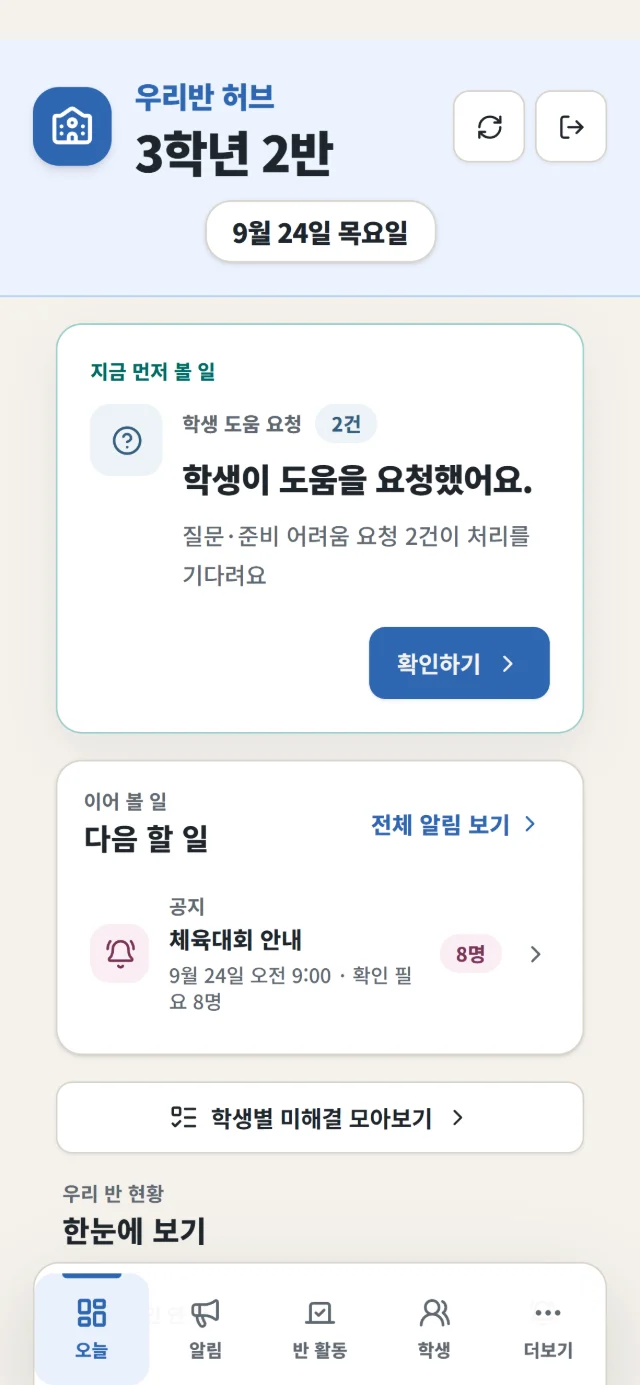
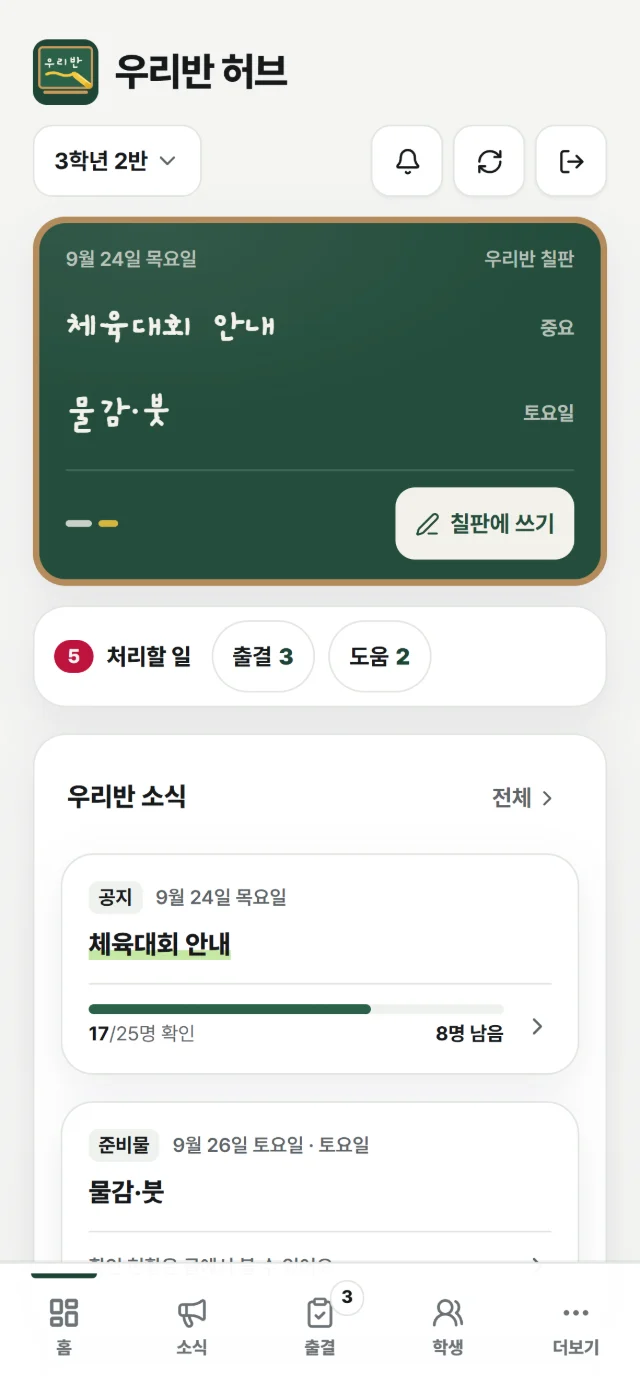
우리반 허브 소개: 새 교사 홈·학생 홈 사진(화면 개편), 반 운영에 출결 연락(선생님·학생) 사진과 설명 추가
합성 학급 데이터로 촬영(실제 학생 정보 없음). 출결 연락은 공식 출결이 아닌 사전 연락임을 설명에 밝힘.

diff --git a/index.html b/index.html
@@ -323,16 +323,25 @@
             <dl>
               <div><dt>QR · 초대 코드</dt><dd>학생은 QR 코드나 초대 코드로 참여를 요청해요. 코드는 기한이 있고, 새로 만들 수 있어요.</dd></div>
               <div><dt>학생 승인</dt><dd>번호와 이름을 정해 승인해요. '모두 승인' 버튼으로 한꺼번에 승인해요.</dd></div>
+              <div><dt>출결 연락</dt><dd>학생이 지각·결석·조퇴를 미리 알리면 선생님이 목록에서 읽고 확인해요. 공식 출결이 아닌 사전 연락이에요.</dd></div>
               <div><dt>반에서 제외</dt><dd>필요하면 제외해요. 학생은 다시 참여를 요청할 수 있어요.</dd></div>
               <div><dt>관리 기록</dt><dd>반 관리 내용을 기록으로 확인해요.</dd></div>
               <div><dt>반 마무리</dt><dd>학년 말에 반 운영을 끝내요.</dd></div>
               <div><dt>화면 · 계정</dt><dd>화면을 밝게 또는 어둡게 바꿀 수 있어요. 비밀번호를 다시 정하거나 계정을 삭제할 수도 있어요.</dd></div>
             </dl>
           </div>
-          <div class="strip" tabindex="0" role="group" aria-label="반 운영 화면 예시 1장">
+          <div class="strip" tabindex="0" role="group" aria-label="반 운영 화면 예시 3장">
             <figure class="device">
               <div class="device__body"><img src="assets/shots/members-approve-640.webp" srcset="assets/shots/members-approve-640.webp 640w, assets/shots/members-approve-900.webp 900w, assets/shots/members-approve.png 1170w" sizes="(min-width:600px) 236px, 62vw" width="390" height="844" loading="lazy" alt="선생님의 학생 관리 화면: '반 참여 대기'·'학생 목록'·'다시 참여 관리' 탭, '대기 학생 모두 승인 (3명)' 버튼, 학생 번호·반에서 보이는 이름 입력 칸"></div>
               <figcaption>학생 관리</figcaption>
+            </figure>
+            <figure class="device">
+              <div class="device__body"><img src="assets/shots/attendance-teacher-640.webp" srcset="assets/shots/attendance-teacher-640.webp 640w, assets/shots/attendance-teacher-900.webp 900w, assets/shots/attendance-teacher.png 1170w" sizes="(min-width:600px) 236px, 62vw" width="390" height="844" loading="lazy" alt="출결 연락(선생님) 화면"></div>
+              <figcaption>출결 연락(선생님)</figcaption>
+            </figure>
+            <figure class="device">
+              <div class="device__body"><img src="assets/shots/attendance-student-640.webp" srcset="assets/shots/attendance-student-640.webp 640w, assets/shots/attendance-student-900.webp 900w, assets/shots/attendance-student.png 1170w" sizes="(min-width:600px) 236px, 62vw" width="390" height="844" loading="lazy" alt="출결 연락(학생) 화면"></div>
+              <figcaption>출결 연락(학생)</figcaption>
             </figure>
           </div>
         </div>
